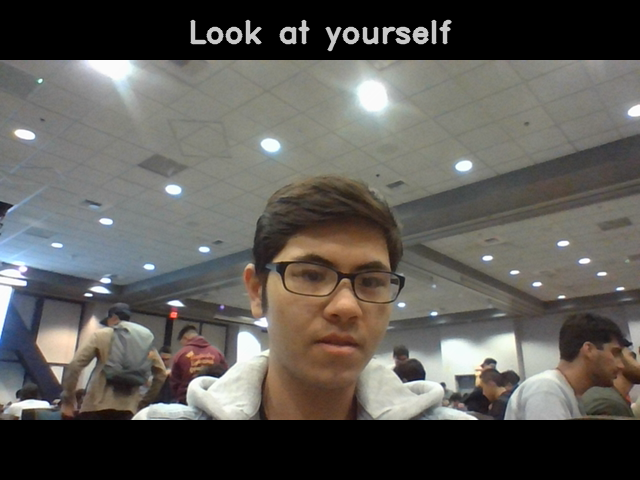
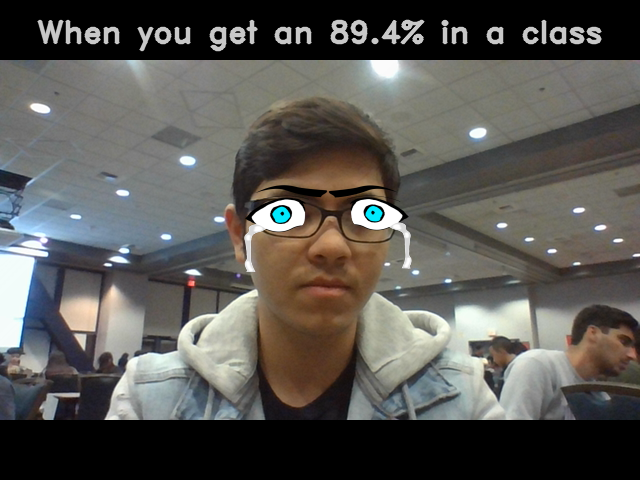
Working GUI

diff --git a/test/openCV.py b/test/openCV.py
@@ -1,9 +1,9 @@
 import cv2
 from functions import *
-from pickMeme import chooseMeme, data
+from pickMeme import chooseMeme, data, random_caption_string
 
     
-def main():
+def main(emotion="random"):
     # Initialize Camera
     cam = cv2.VideoCapture(0)
 
@@ -15,9 +15,14 @@ def main():
     face_cascade = cv2.CascadeClassifier('test/data/haarcascade_frontalface_alt2.xml')
 
     # find emotion and caption and image filter
-    temp = chooseMeme()
-    emotion = temp[0]
-    caption = temp[1]
+
+    caption = ""
+    if (emotion == "random"): # randomize caption and emotion
+        temp = chooseMeme()
+        emotion = temp[0]
+        caption = temp[1]
+    else:
+        caption = random_caption_string(emotion)
 
     def applyFilter(store_frame, faces, emotion):
         if (emotion == "happy"):

diff --git a/test/runGUI.py b/test/runGUI.py
@@ -9,9 +9,6 @@ root.title("MemeMe")
 
 emotions = data.keys()
 
-def clicked():
-    main()
-
 #Intialize Title Label
 titleLabel = Label(root, text="MemeMe", font=("Courier", 44))
 titleLabel.pack()
@@ -28,6 +25,9 @@ memeCombo['values'] = sorted(c for c in emotions)
 memeCombo.current(0)
 memeCombo.pack(pady=10)
 
+def clicked():
+    emot = memeCombo.get()
+    main(emot)
 
 #Initialize Weather Button 
 memeBtn = Button(root, text="Memeify", width=20, command=clicked)
